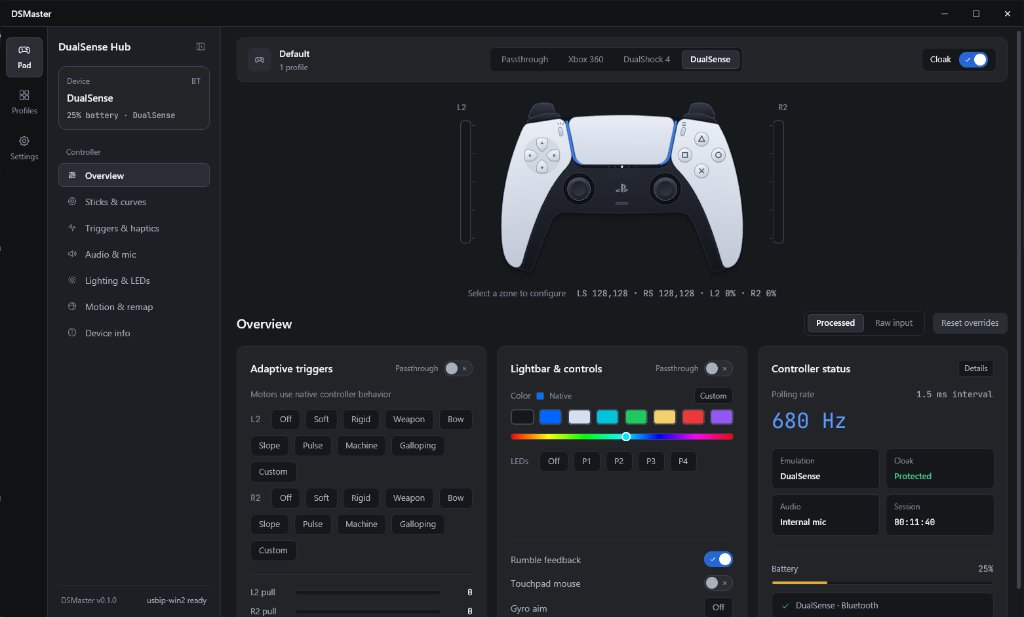
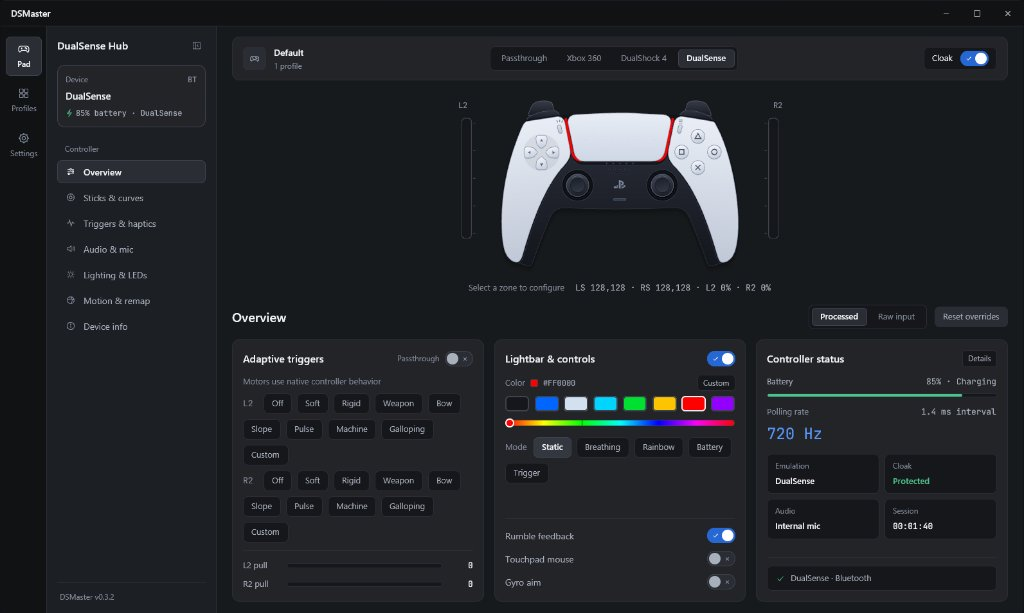
docs: refresh README features and Overview screenshot

diff --git a/README.md b/README.md
@@ -4,30 +4,29 @@
 </h1>
 
 <p align="center">
-  Low-latency Windows desktop utility for Sony PlayStation 5 DualSense and DualSense Edge controllers, written in Rust with a GPU-accelerated <a href="https://gpui.rs">GPUI</a> interface.
+  Fast, lightweight Windows app for PlayStation 5 DualSense and DualSense Edge controllers — built in Rust with a GPU-accelerated <a href="https://gpui.rs">GPUI</a> interface.
 </p>
 
 ![DSMaster Overview](assets/screenshot.jpg)
 
-## Current Features
+## Features
 
-- **USB and Bluetooth DualSense / DualSense Edge support:** Native Win32 overlapped HID I/O with event-driven hot-plug detection (`CM_Register_Notification`) and CRC-32 verification on Bluetooth `0x31` reports.
-- **Xbox 360 and DualShock 4 emulation:** Pure-Rust overlapped `ViGEmBus` IOCTL client with motor rumble and DualShock 4 lightbar feedback routed back to the physical DualSense.
-- **Virtual DualSense emulation (`usbip-win2`):** Clean-room Rust USB/IP v1.1.1 loopback server paired with user-installed `vadimgrn/usbip-win2`, exposing a virtual wired USB DualSense (`0x054C:0x0CE6`) with native adaptive triggers, lightbar RGB, player LEDs, and rumble forwarded back to your physical controller over USB or Bluetooth.
-- **HidHide physical controller cloaking:** Direct `HidHide` IOCTL integration with 3-layer virtual-device self-exclusion to hide only the physical DualSense and prevent double input.
-- **Stick, trigger, and button tuning:** Radial/Axial/Passthrough deadzones, outer deadzone (saturation), anti-deadzone, axis inversion, L/R stick swap, response curves (`Linear`, `Quadratic`, `Cubic`, `Aggressive`), independent L2/R2 deadzones & hair-trigger scaling, full customizable button-to-button remapping (with swap & disable), and Turbo rapid-fire.
-- **Adaptive triggers, lighting, and rumble:** Independent L2 and R2 presets (`Off`, `Soft`, `Rigid`, `Weapon`, `Bow`, `Slope`, `Pulse`, `Machine`, `Galloping`, `Custom`), custom trigger parameters, rumble intensity scaling with live Left/Right/Both motor testing, lightbar RGB picker & animations (`Static`, `Breathing`, `Rainbow`, `Battery`, `Trigger`), lightbar & player LED brightness, mic mute LED override, low-battery flash alert, and idle lightbar dim timeout.
-- **Bluetooth speaker, microphone & HD voice-coil haptics:** Dedicated **Audio & mic** section with an optional Virtual Windows Audio Device (`Speakers` + `Microphone (DualSense Wireless Audio)` via `usbip-win2` UAC 1.0), WASAPI loopback PC audio mirroring to the DualSense speaker/3.5 mm jack over Bluetooth (`0x35` 48 kHz 10 ms CBR Opus), full-duplex Bluetooth microphone capture (`0x31` mono Opus), low-passed 3 kHz stereo HD haptics (`0x32` / combined `0x35`), route selection (`Built-in speaker`, `Headphone jack`), independent volume/gain, and built-in test chime & HD haptics generators.
-- **Touchpad, gyro & diagnostics:** Touchpad-to-mouse with 2-finger vertical scroll, tap-to-click, and split L/R click zones; calibrated gyro-to-mouse or gyro-to-right-stick (`Off`, `Hold L2`, `Hold L1`, `Hold R2`, `Hold R1`, `Touchpad`, `Always On`) with deadzone, yaw/roll axes, inversion, and live IMU telemetry; and **Device info** hardware/firmware diagnostics (`0x09`/`0x20` reports).
-- **Per-application profiles:** Automatic foreground-window profile switching via `SetWinEventHook`, profile duplicate/reset, clipboard TOML export/import, and TOML persistence at `%APPDATA%\DSMaster\profiles.toml`.
-- **Background operation and settings:** Native Windows system tray with quick mode/cloak menu, close-to-tray, start minimized, launch at Windows startup, and single-instance wake-up.
-- **VSync Live Input Monitor:** Wait-free `SeqLock` telemetry snapshots rendered at display refresh rate for sticks, triggers, D-Pad, buttons, Edge paddles, and rumble feedback.
+- **USB & Bluetooth DualSense / DualSense Edge:** Plug-and-play support over USB or Bluetooth with live input monitoring, battery level, and hardware/firmware diagnostics.
+- **Controller Emulation:** Emulate an **Xbox 360** or **DualShock 4** controller (via ViGEmBus), or a **Virtual DualSense** (via `usbip-win2`) so games get native adaptive triggers, lightbar RGB, player LEDs, and rumble even over Bluetooth.
+- **Double-Input Protection:** Built-in **HidHide** cloaking hides your physical controller from games so you never get duplicate inputs.
+- **Adaptive Triggers & Rumble:** Independent L2/R2 trigger presets (`Off`, `Soft`, `Rigid`, `Weapon`, `Bow`, `Slope`, `Pulse`, `Machine`, `Galloping`, `Custom`), custom force/position tuning, and rumble intensity scaling with live motor testing.
+- **Lighting & LEDs:** Full RGB color picker, lightbar animations (`Static`, `Breathing`, `Rainbow`, `Battery`, `Trigger`), brightness control, player LEDs, mic mute LED override, low-battery red flash, and idle dim timer.
+- **Bluetooth Audio, Mic & Audio-to-Haptics:** Stream PC audio to the controller's built-in speaker or 3.5 mm headphone jack over Bluetooth, use the controller's microphone as a Windows input device, and turn PC or controller audio into live HD haptics.
+- **Sticks, Triggers, Remapping & Hotkeys:** Radial/Axial deadzones, anti-deadzone, outer deadzone, response curves, hair-triggers, full button-to-button remapping, Turbo rapid-fire, and **keyboard hotkeys, media keys, and multi-step macros** (e.g. bind the controller's Mic button to mute Discord).
+- **Touchpad Mouse, Gyro Aim & Flick Stick:** Use the touchpad as a desktop mouse (2-finger scroll, tap-to-click, split L/R click), aim with calibrated gyro (mouse or right stick), and snap-turn with **Flick Stick**.
+- **Emulator & Mod Support:** Built-in **CemuHook / DSU** motion server (port `26760`) for Cemu, Dolphin, Ryujinx, and RPCS3, plus a **DSX-compatible UDP mod server** (port `6969`) for game mods that drive adaptive triggers and LEDs.
+- **Per-App Profiles & Desktop Quality of Life:** Automatic profile switching per game, TOML export/import, live battery icon in the system tray, desktop notifications (connect, disconnect, low battery), optional Bluetooth idle auto-disconnect, launch at startup, and built-in GitHub Releases auto-updater.
 
 ## Requirements
 
 - Windows 10 or Windows 11 (x64)
 - [Nefarius ViGEmBus](https://github.com/nefarius/ViGEmBus/releases) driver for Xbox 360 and DualShock 4 emulation
-- [Nefarius HidHide](https://github.com/nefarius/HidHide/releases) driver (optional) for physical controller cloaking
+- [Nefarius HidHide](https://github.com/nefarius/HidHide/releases) driver (optional) for hiding the physical controller
 - [vadimgrn/usbip-win2](https://github.com/vadimgrn/usbip-win2/releases) (BSD-2-Clause, optional) for Virtual DualSense emulation. *Anti-cheat note:* Virtual USB/IP emulation is intended for single-player and native-DualSense PC titles; switch DSMaster to **Passthrough** mode (and avoid running `usbip-win2`) when playing competitive titles with strict kernel anti-cheat (e.g., FACEIT, Vanguard, Ricochet).
 
 ## Building
@@ -53,12 +52,12 @@ cargo test
 ## Architecture
 
 - `src/protocol/` — Zero-allocation DualSense USB/Bluetooth report parser & encoder, output parser/encoder, IMU calibration, adaptive trigger payloads, synthetic feature reports (`0x05`, `0x09`, `0x20`), and clean-room USB/HID descriptors.
-- `src/hid/` — Overlapped Win32 HID transport, 3-layer virtual-device self-exclusion, and PnP device arrival/removal monitor.
-- `src/emu/` — DualSense-to-XUSB/DS4 mapping, pure-Rust `ViGEmBus` IOCTL client, and clean-room USB/IP v1.1.1 Virtual DualSense backend (`usbip-win2`).
+- `src/hid/` — Overlapped Win32 HID transport, 3-layer virtual-device self-exclusion, PnP device arrival/removal monitor, and Bluetooth power disconnect (`IOCTL_BTH_DISCONNECT_DEVICE`).
+- `src/emu/` — DualSense-to-XUSB/DS4 mapping, pure-Rust `ViGEmBus` IOCTL client, and clean-room USB/IP v1.1.1 Virtual DualSense & UAC audio backend (`usbip-win2`).
 - `src/cloak/` — Direct `HidHide` IOCTL client, virtual-device safety guards, and NT path translation.
-- `src/engine/` — MMCSS `"Games"` per-controller I/O loop, input processing, mouse injection, `ArcSwap` profiles, foreground app watcher, and wait-free `SeqLock` telemetry.
-- `src/tray.rs` & `src/startup.rs` — Native Win32 system tray, single-instance guard, and Windows startup registration.
-- `src/ui/` — GPUI interface (`theme`, `widgets`, `DsMasterView`).
+- `src/engine/` — MMCSS `"Games"` per-controller I/O loop, input processing, mouse/Flick Stick & keyboard/macro injection, CemuHook DSU & DSX UDP servers, `ArcSwap` profiles, foreground app watcher, and wait-free `SeqLock` telemetry.
+- `src/tray.rs`, `src/startup.rs`, `src/drivers.rs`, `src/updater.rs` — Dynamic battery system tray & notifications, single-instance guard, Windows startup registration, driver installer, and GitHub Releases updater.
+- `src/ui/` — GPUI interface (`theme`, `widgets`, `icons`, `controller_view`, `DsMasterView`).
 
 ## Disclaimer
 
